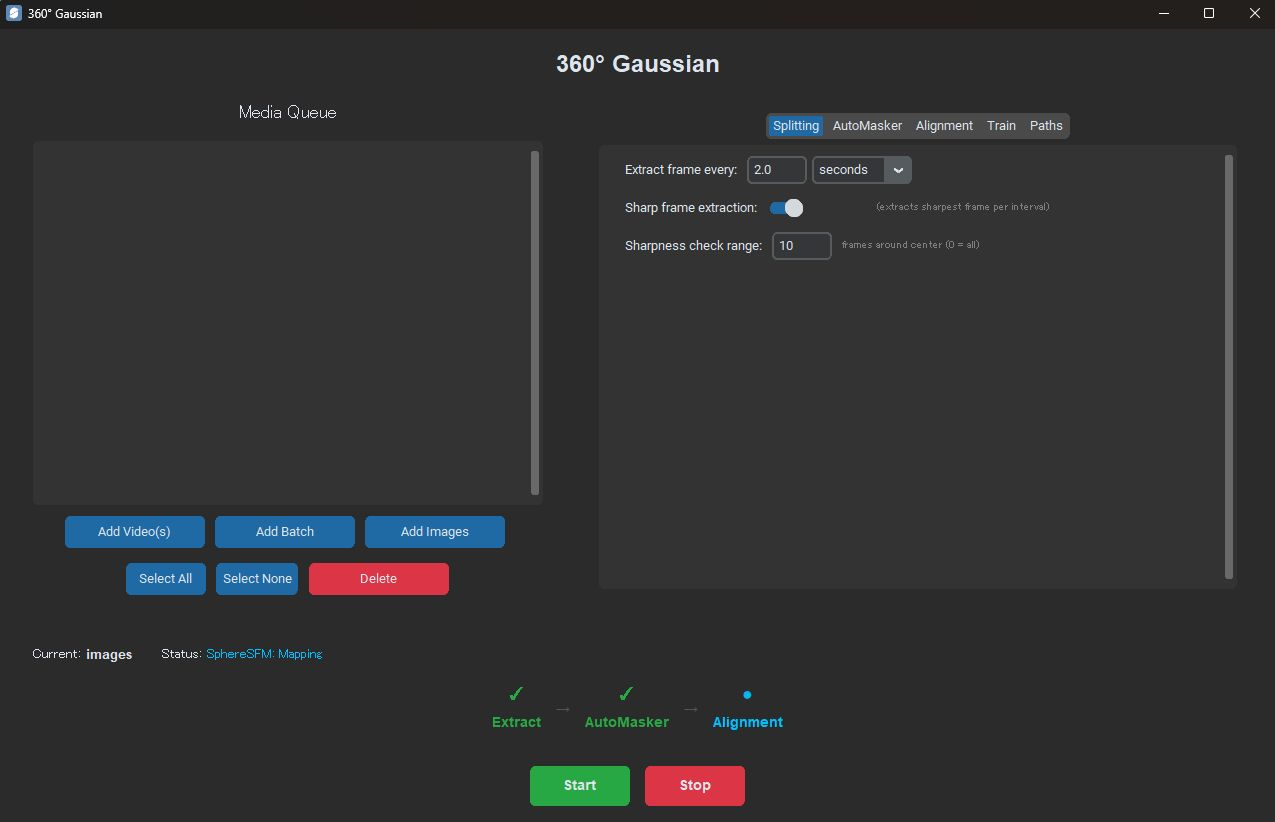
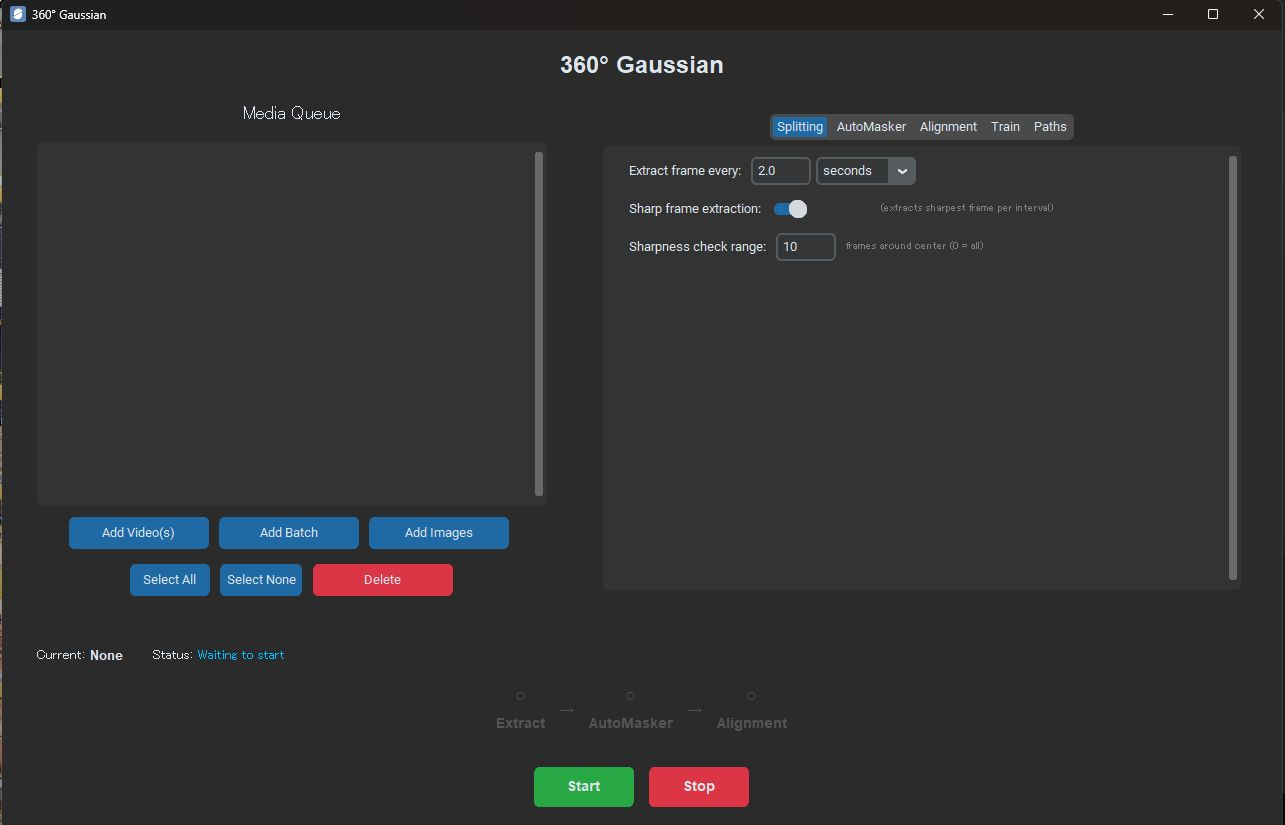
Update UI image

diff --git a/Documents/Advanced/article-EN.md b/Documents/Advanced/article-EN.md
@@ -132,7 +132,7 @@ For detailed usage, refer to the following videos:
 | Sharp frame extraction | Whether to prioritize less blurry images compared to adjacent frames |
 | Sharpness check range | E.g., `10` compares ±5 frames to select the sharpest image |
 
-![360° Gaussian Splitting Settings](https://raw.githubusercontent.com/TakashiYoshinaga/360-to-RealityScan/main/Documents/Images/001-360GaussianUI-01.jpg)
+![360° Gaussian Splitting Settings](https://raw.githubusercontent.com/TakashiYoshinaga/360-to-RealityScan/main/Documents/Images/001-360GaussianUI-01_2.jpg)
 
 ### 2.2 Image Masking (Optional)
 

diff --git a/Documents/MetaShape/article-EN.md b/Documents/MetaShape/article-EN.md
@@ -107,7 +107,7 @@ For detailed usage, refer to the following videos:
 | Sharp frame extraction | Whether to prioritize less blurry images compared to adjacent frames |
 | Sharpness check range | E.g., `10` compares ±5 frames to select the sharpest image |
 
-![360° Gaussian Splitting Settings](https://raw.githubusercontent.com/TakashiYoshinaga/360-to-RealityScan/main/Documents/Images/001-360GaussianUI-01.jpg)
+![360° Gaussian Splitting Settings](https://raw.githubusercontent.com/TakashiYoshinaga/360-to-RealityScan/main/Documents/Images/001-360GaussianUI-01_2.jpg)
 
 ### 2.2 Image Masking (Optional)
 

diff --git a/Documents/Basic/article-EN.md b/Documents/Basic/article-EN.md
@@ -96,7 +96,7 @@ For detailed usage, refer to the following videos:
 | Sharp frame extraction | Whether to prioritize less blurry images compared to adjacent frames |
 | Sharpness check range | E.g., `10` compares ±5 frames to select the sharpest image |
 
-![360° Gaussian Splitting Settings](https://raw.githubusercontent.com/TakashiYoshinaga/360-to-RealityScan/main/Documents/Images/001-360GaussianUI-01.jpg)
+![360° Gaussian Splitting Settings](https://raw.githubusercontent.com/TakashiYoshinaga/360-to-RealityScan/main/Documents/Images/001-360GaussianUI-01_2.jpg)
 
 ### 2.2 Image Masking (Optional)
 
